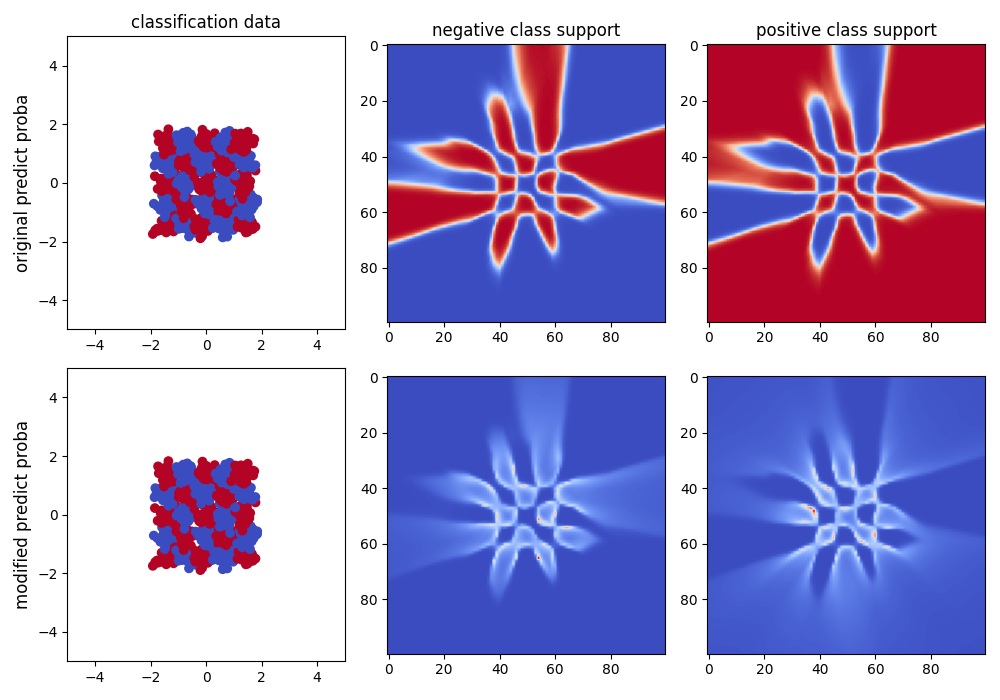
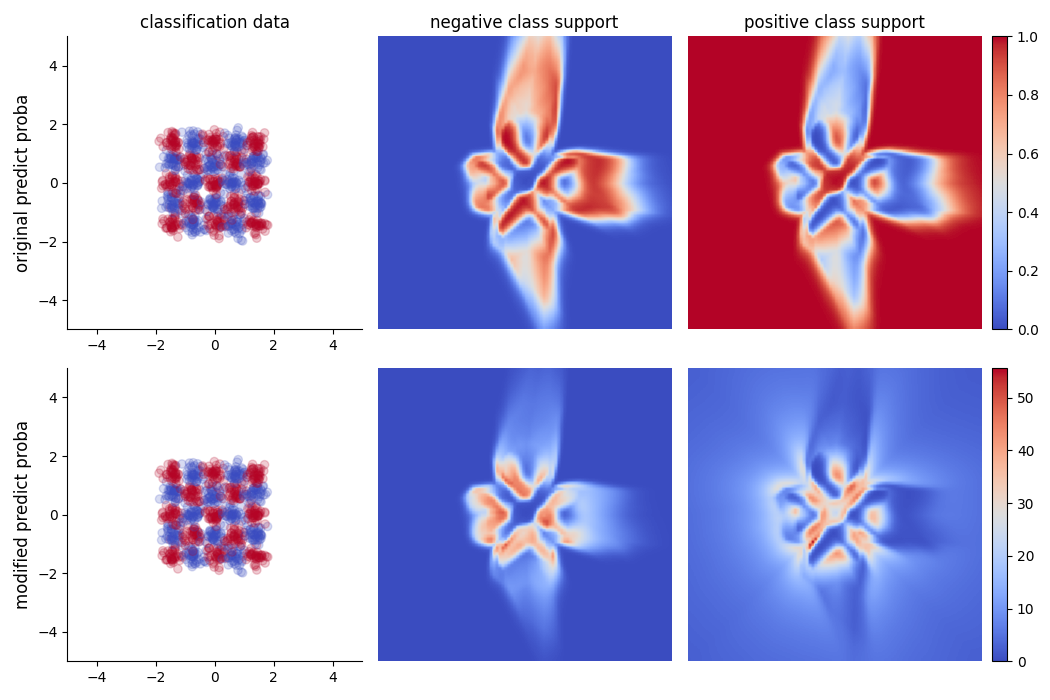
.

diff --git a/E3_2d_sample.py b/E3_2d_sample.py
@@ -6,6 +6,7 @@ from scipy.stats import f_oneway
 from tqdm import tqdm
 from utils import norm_0_1, zeto, ns2pdf
 import matplotlib.pyplot as plt
+from scipy.stats import hmean
 
 # Data configuration
 n_samples = 1000
@@ -17,13 +18,11 @@ f = 2
 X, y, ns = zeto(n_samples=n_samples, m_centroids=n_c, factor=f)
 
 # Method configuration
-n_methods = 7
 iterations = 32
 
 # Experiment configuration
 pred_space = np.linspace(-5,5,100).reshape(-1, 1)
 pred_mesh = np.array(np.meshgrid(pred_space, pred_space)).reshape(2,-1).T
-
 
 #### Experiment ####
 
@@ -32,33 +31,53 @@ clf = DPL(base_clf=MLPRegressor(hidden_layer_sizes = (100, 100)), integrator=MLP
 
 for i in range(iterations):
     pred_clf = clf.partial_fit(X,y).predict_proba(pred_mesh)
-    _pred_clf = clf.partial_fit(X,y)._predict_proba(pred_mesh)
-    n_pred_clf = norm_0_1(pred_clf)
-    _n_pred_clf = norm_0_1(_pred_clf)
+    dist = clf.decfunc(pred_mesh)
     
-    fig, ax = plt.subplots(2,3,figsize=(10,7))
+    s_pred_clf = pred_clf/np.std(dist, axis=1).reshape(-1,1)
+    
+    o_mi, o_ma = np.min(pred_clf), np.max(pred_clf)
+    m_mi, m_ma = np.min(s_pred_clf), np.max(s_pred_clf)
+
+    fig, ax = plt.subplots(2,3,figsize=(10.5,7))
     ax = ax.ravel()
 
-    ax[0].scatter(X[:,0], X[:,1], c=y, cmap='coolwarm')
+    ax[0].scatter(X[:,0], X[:,1], c=y, cmap='coolwarm', alpha=0.2)
     ax[0].set_xlim(-5,5)
     ax[0].set_ylim(-5,5)
     ax[0].set_title('classification data')
     ax[0].set_ylabel('original predict proba', fontsize=12)
     
-    ax[1].imshow(n_pred_clf[:,0].reshape(100,100), cmap='coolwarm')
-    ax[1].set_title('negative class support')
-
-    ax[3].scatter(X[:,0], X[:,1], c=y, cmap='coolwarm')
+    ax[3].scatter(X[:,0], X[:,1], c=y, cmap='coolwarm', alpha=0.2)
     ax[3].set_xlim(-5,5)
     ax[3].set_ylim(-5,5)
     ax[3].set_ylabel('modified predict proba', fontsize=12)
 
-    ax[2].imshow(n_pred_clf[:,1].reshape(100,100), cmap='coolwarm')
+    ax[1].set_title('negative class support')
     ax[2].set_title('positive class support')
 
-    ax[4].imshow(_n_pred_clf[:,0].reshape(100,100), cmap='coolwarm')
-    ax[5].imshow(_n_pred_clf[:,1].reshape(100,100), cmap='coolwarm')
+    o = ax[1].imshow(pred_clf[:,0].reshape(100,100), cmap='coolwarm', vmin=o_mi, vmax=o_ma)
+    ax[2].imshow(pred_clf[:,1].reshape(100,100), cmap='coolwarm', vmin=o_mi, vmax=o_ma)
 
+    m = ax[4].imshow(s_pred_clf[:,0].reshape(100,100), cmap='coolwarm', vmin=m_mi, vmax=m_ma)
+    ax[5].imshow(s_pred_clf[:,1].reshape(100,100), cmap='coolwarm', vmin=m_mi, vmax=m_ma)
+
+    cax_2 = ax[2].inset_axes([1.04, 0.0, 0.05, 1.0])
+    fig.colorbar(o, ax=ax[2], cax=cax_2)  
+    
+    cax_5 = ax[5].inset_axes([1.04, 0.0, 0.05, 1.0])
+    fig.colorbar(m, ax=ax[5], cax=cax_5)  
+      
+    for aa in ax:
+        aa.spines['top'].set_visible(False)
+        aa.spines['right'].set_visible(False)
+    
+    for aa in ax[[1,2,4,5]]: 
+        aa.set_xticks([])
+        aa.set_yticks([])
+        aa.spines['bottom'].set_visible(False)
+        aa.spines['left'].set_visible(False)
+            
+        
     plt.tight_layout()
-    plt.savefig('foo.png')
+    plt.savefig('foo2.png')
 

diff --git a/vapor/_E3_2d_sample.py b/vapor/_E3_2d_sample.py
@@ -1,0 +1,64 @@
+import numpy as np
+from sklearn.neural_network import MLPRegressor, MLPClassifier
+from methods import DPL
+from sklearn.metrics import mean_absolute_error, mean_squared_error
+from scipy.stats import f_oneway
+from tqdm import tqdm
+from utils import norm_0_1, zeto, ns2pdf
+import matplotlib.pyplot as plt
+
+# Data configuration
+n_samples = 1000
+
+# Our synthetic
+n_c = 5
+f = 2
+
+X, y, ns = zeto(n_samples=n_samples, m_centroids=n_c, factor=f)
+
+# Method configuration
+n_methods = 7
+iterations = 320
+
+# Experiment configuration
+q = 500
+pred_space = np.linspace(-5,5,q).reshape(-1, 1)
+pred_mesh = np.array(np.meshgrid(pred_space, pred_space)).reshape(2,-1).T
+
+
+#### Experiment ####
+
+clf = DPL(base_clf=MLPRegressor(hidden_layer_sizes = (100, 100), learning_rate_init=0.0001), integrator=MLPClassifier(), 
+          curve_quants=30, monotonic=False, transform='sqrt')
+
+for i in range(iterations):
+    pred_clf = clf.partial_fit(X,y).predict_proba(pred_mesh)
+    std_pred_clf = clf.partial_fit(X,y).std_predict_proba(pred_mesh)
+    mean_pred_clf = clf.partial_fit(X,y).mean_predict_proba(pred_mesh)
+    n_pred_clf = norm_0_1(pred_clf)
+    n_std_pred_clf = norm_0_1(std_pred_clf)
+    n_mean_pred_clf = norm_0_1(mean_pred_clf)
+    
+    fig, ax = plt.subplots(2,2,figsize=(10,10))
+    ax = ax.ravel()
+    
+    cmap = 'twilight'
+
+    ax[0].imshow(n_std_pred_clf[:,0].reshape(q,q), cmap=cmap)
+    ax[1].imshow(n_std_pred_clf[:,1].reshape(q,q), cmap=cmap)
+    
+    ax[2].imshow(n_mean_pred_clf[:,0].reshape(q,q), cmap=cmap)
+    ax[3].imshow(n_mean_pred_clf[:,1].reshape(q,q), cmap=cmap)
+
+    for aa in ax:
+        aa.set_xticks([])
+        aa.set_yticks([])
+        aa.spines['top'].set_visible(False)
+        aa.spines['bottom'].set_visible(False)
+        aa.spines['right'].set_visible(False)
+        aa.spines['left'].set_visible(False)
+
+    plt.tight_layout()
+    plt.savefig('temp/%04d.png' % i)
+    plt.savefig('foo2.png')
+

diff --git a/E3_2d_sample2.py b/E3_2d_sample2.py
@@ -1,0 +1,61 @@
+import numpy as np
+from sklearn.neural_network import MLPRegressor, MLPClassifier
+from methods import DPL
+from sklearn.metrics import mean_absolute_error, mean_squared_error
+from scipy.stats import f_oneway
+from tqdm import tqdm
+from utils import norm_0_1, zeto, ns2pdf
+import matplotlib.pyplot as plt
+from scipy.stats import hmean
+
+# Data configuration
+n_samples = 1000
+
+# Our synthetic
+n_c = 5
+f = 2
+
+X, y, ns = zeto(n_samples=n_samples, m_centroids=n_c, factor=f)
+
+# Method configuration
+n_methods = 7
+iterations = 64
+
+# Experiment configuration
+pred_space = np.linspace(-5,5,100).reshape(-1, 1)
+pred_mesh = np.array(np.meshgrid(pred_space, pred_space)).reshape(2,-1).T
+
+
+#### Experiment ####
+
+clf = DPL(base_clf=MLPRegressor(hidden_layer_sizes = (100, 100, 100)), integrator=MLPClassifier(), 
+          curve_quants=30, monotonic=False, transform='sqrt')
+
+for i in range(iterations):
+    pred_clf = clf.partial_fit(X,y).predict_proba(pred_mesh)
+    dist = clf.decfunc(pred_mesh)
+    
+    dist = np.abs(dist)
+    
+    d_std = np.std(dist, axis=1)
+    d_hmean = hmean(dist, axis=1)
+    
+    fig, ax = plt.subplots(1,3,figsize=(10,4))
+    ax = ax.ravel()
+
+    ax[0].scatter(X[:,0], X[:,1], c=y, cmap='coolwarm')
+    ax[0].set_xlim(-5,5)
+    ax[0].set_ylim(-5,5)
+    ax[0].set_title('classification data')
+    
+    ax[1].imshow(d_std.reshape(100,100), cmap='coolwarm')
+    ax[1].set_title('std')
+
+  
+    ax[2].imshow(d_hmean.reshape(100,100), cmap='coolwarm')
+    ax[2].set_title('hmean')
+
+   
+    plt.tight_layout()
+    plt.savefig('foo2.png')
+

diff --git a/vapor/_E3_2d_sample2.py b/vapor/_E3_2d_sample2.py
@@ -1,0 +1,52 @@
+import numpy as np
+from sklearn.neural_network import MLPRegressor, MLPClassifier
+from methods import DPL
+from sklearn.metrics import mean_absolute_error, mean_squared_error
+from scipy.stats import f_oneway
+from tqdm import tqdm
+from utils import norm_0_1, zeto, ns2pdf
+import matplotlib.pyplot as plt
+from scipy.stats import hmean
+
+# Data configuration
+n_samples = 1000
+
+# Our synthetic
+n_c = 5
+f = 2
+
+X, y, ns = zeto(n_samples=n_samples, m_centroids=n_c, factor=f)
+
+# Method configuration
+iterations = 120
+
+# Experiment configuration
+pred_space = np.linspace(-10,10,500).reshape(-1, 1)
+pred_mesh = np.array(np.meshgrid(pred_space, pred_space)).reshape(2,-1).T
+
+
+#### Experiment ####
+
+clf = DPL(base_clf=MLPRegressor(hidden_layer_sizes = (100, 100, 100), learning_rate_init=0.0001), 
+          integrator=MLPClassifier(), 
+          curve_quants=30, monotonic=False, transform='sqrt')
+
+for i in range(iterations):
+    clf.partial_fit(X, y)
+    dist = clf.decfunc(pred_mesh)
+    
+    dist = np.abs(dist)
+    
+    d_std = np.std(dist, axis=1)
+    d_hmean = hmean(dist, axis=1)
+    
+    fig, ax = plt.subplots(1,1,figsize=(10,10))
+  
+    ax.imshow(d_std.reshape(500,500), cmap='magma_r')
+    ax.set_xticks([])
+    ax.set_yticks([])
+   
+    plt.tight_layout()
+    plt.savefig('foo2.png')
+    plt.savefig('temp/temp2/%04d.png' % i)
+

diff --git a/methods.py b/methods.py
@@ -101,14 +101,6 @@ class DPL(ClassifierMixin, BaseEstimator):
         dist = self.decfunc(X)
         return self.integrator.predict_proba(dist)
     
-    def _predict_proba(self, X):
-        dist = self.decfunc(X)
-        dist_std = np.std(dist, axis=1).reshape(-1,1)
-
-        pp =  self.integrator.predict_proba(dist)
-        return pp/dist_std
-        
-    
     def score_samples(self, X):
         dist = -self.decfunc(X) # estimates the distance to curve_quants nearest neighbors
         dist[dist<0]=0.001
